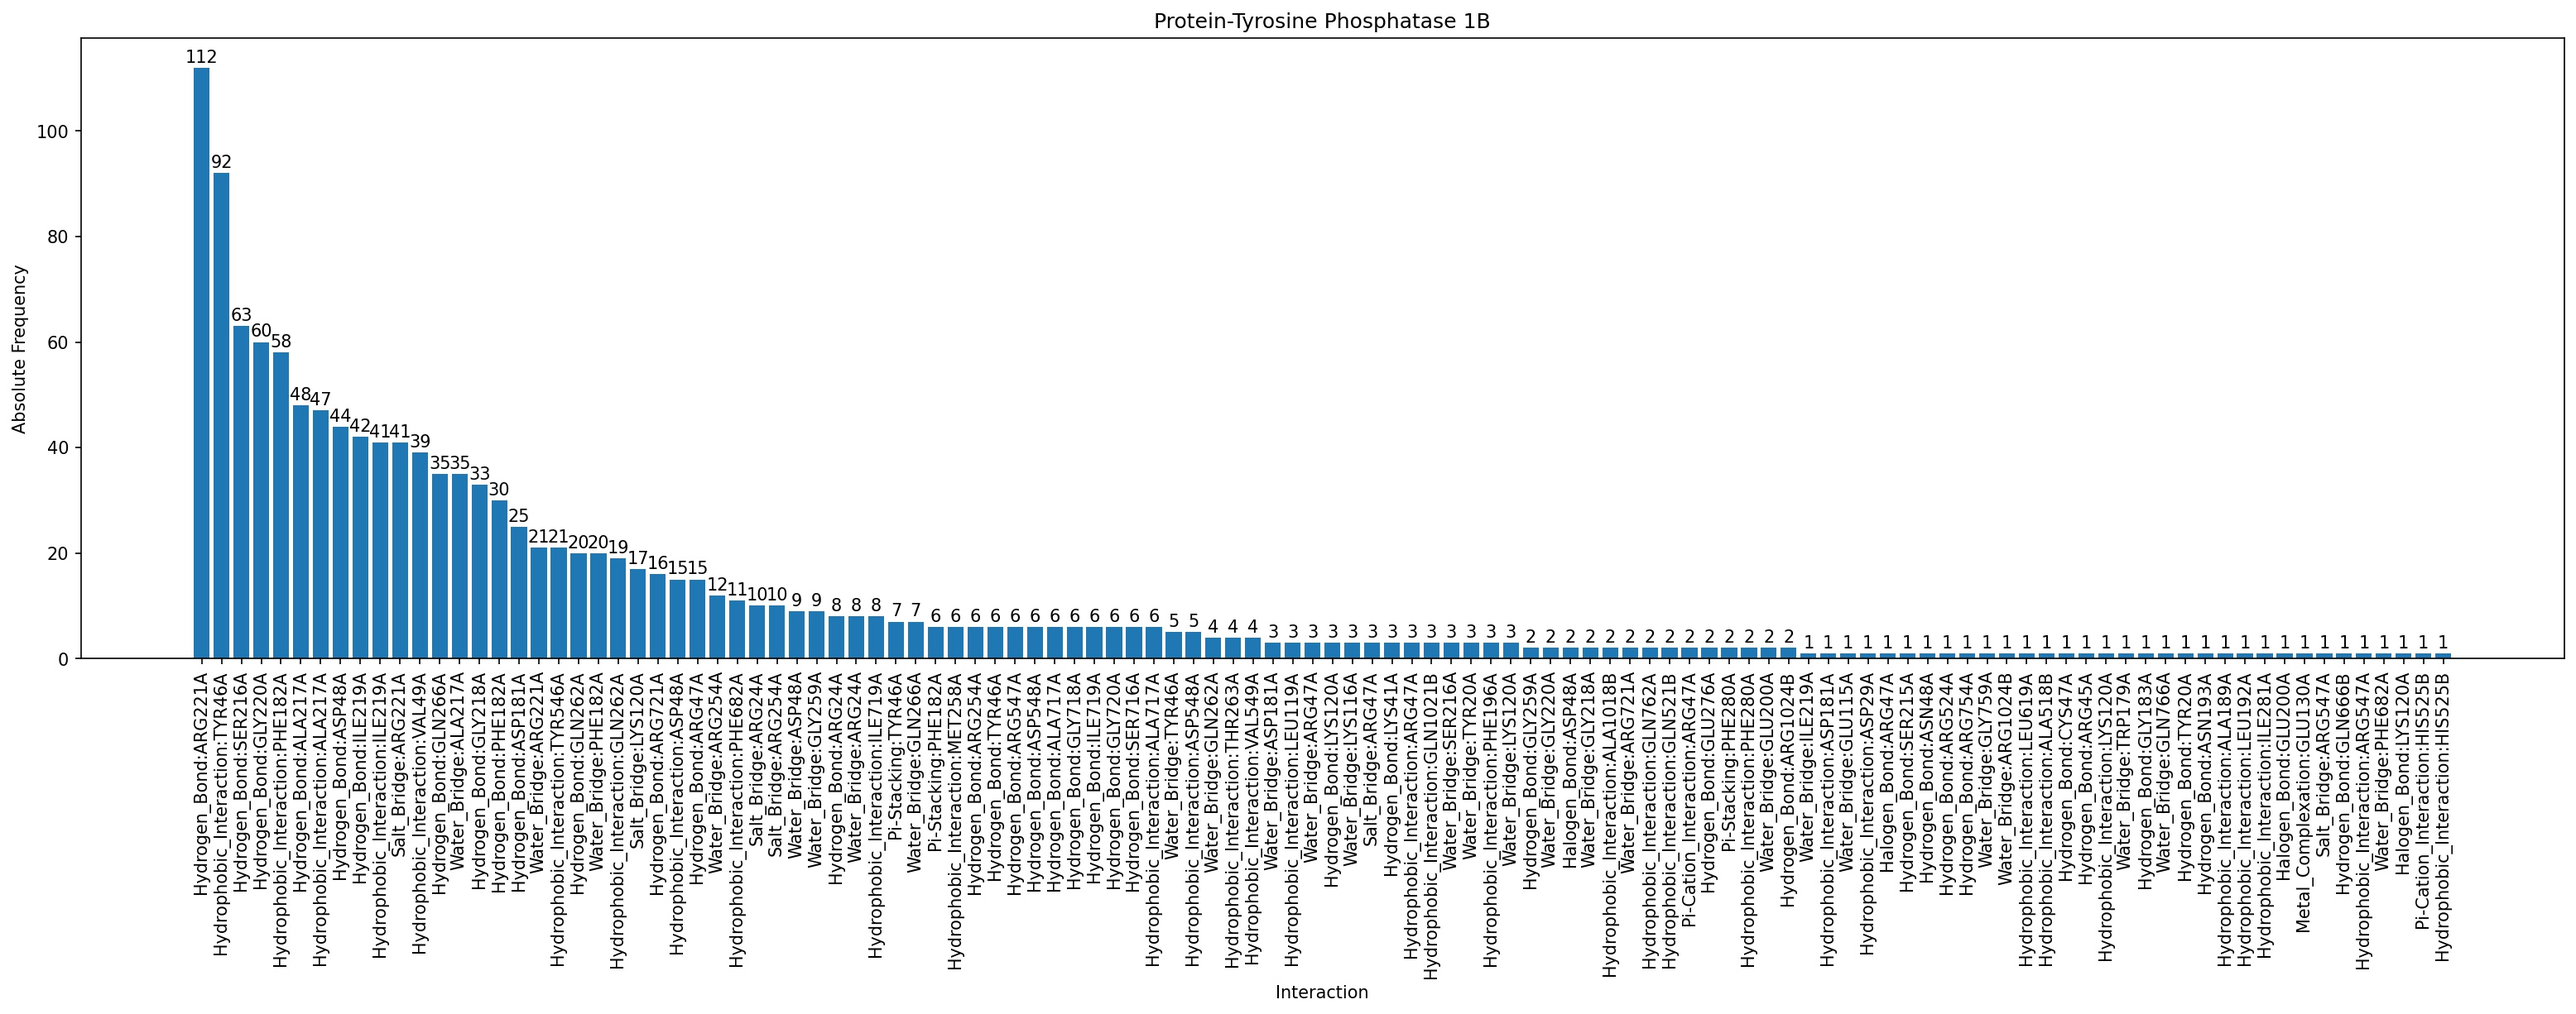
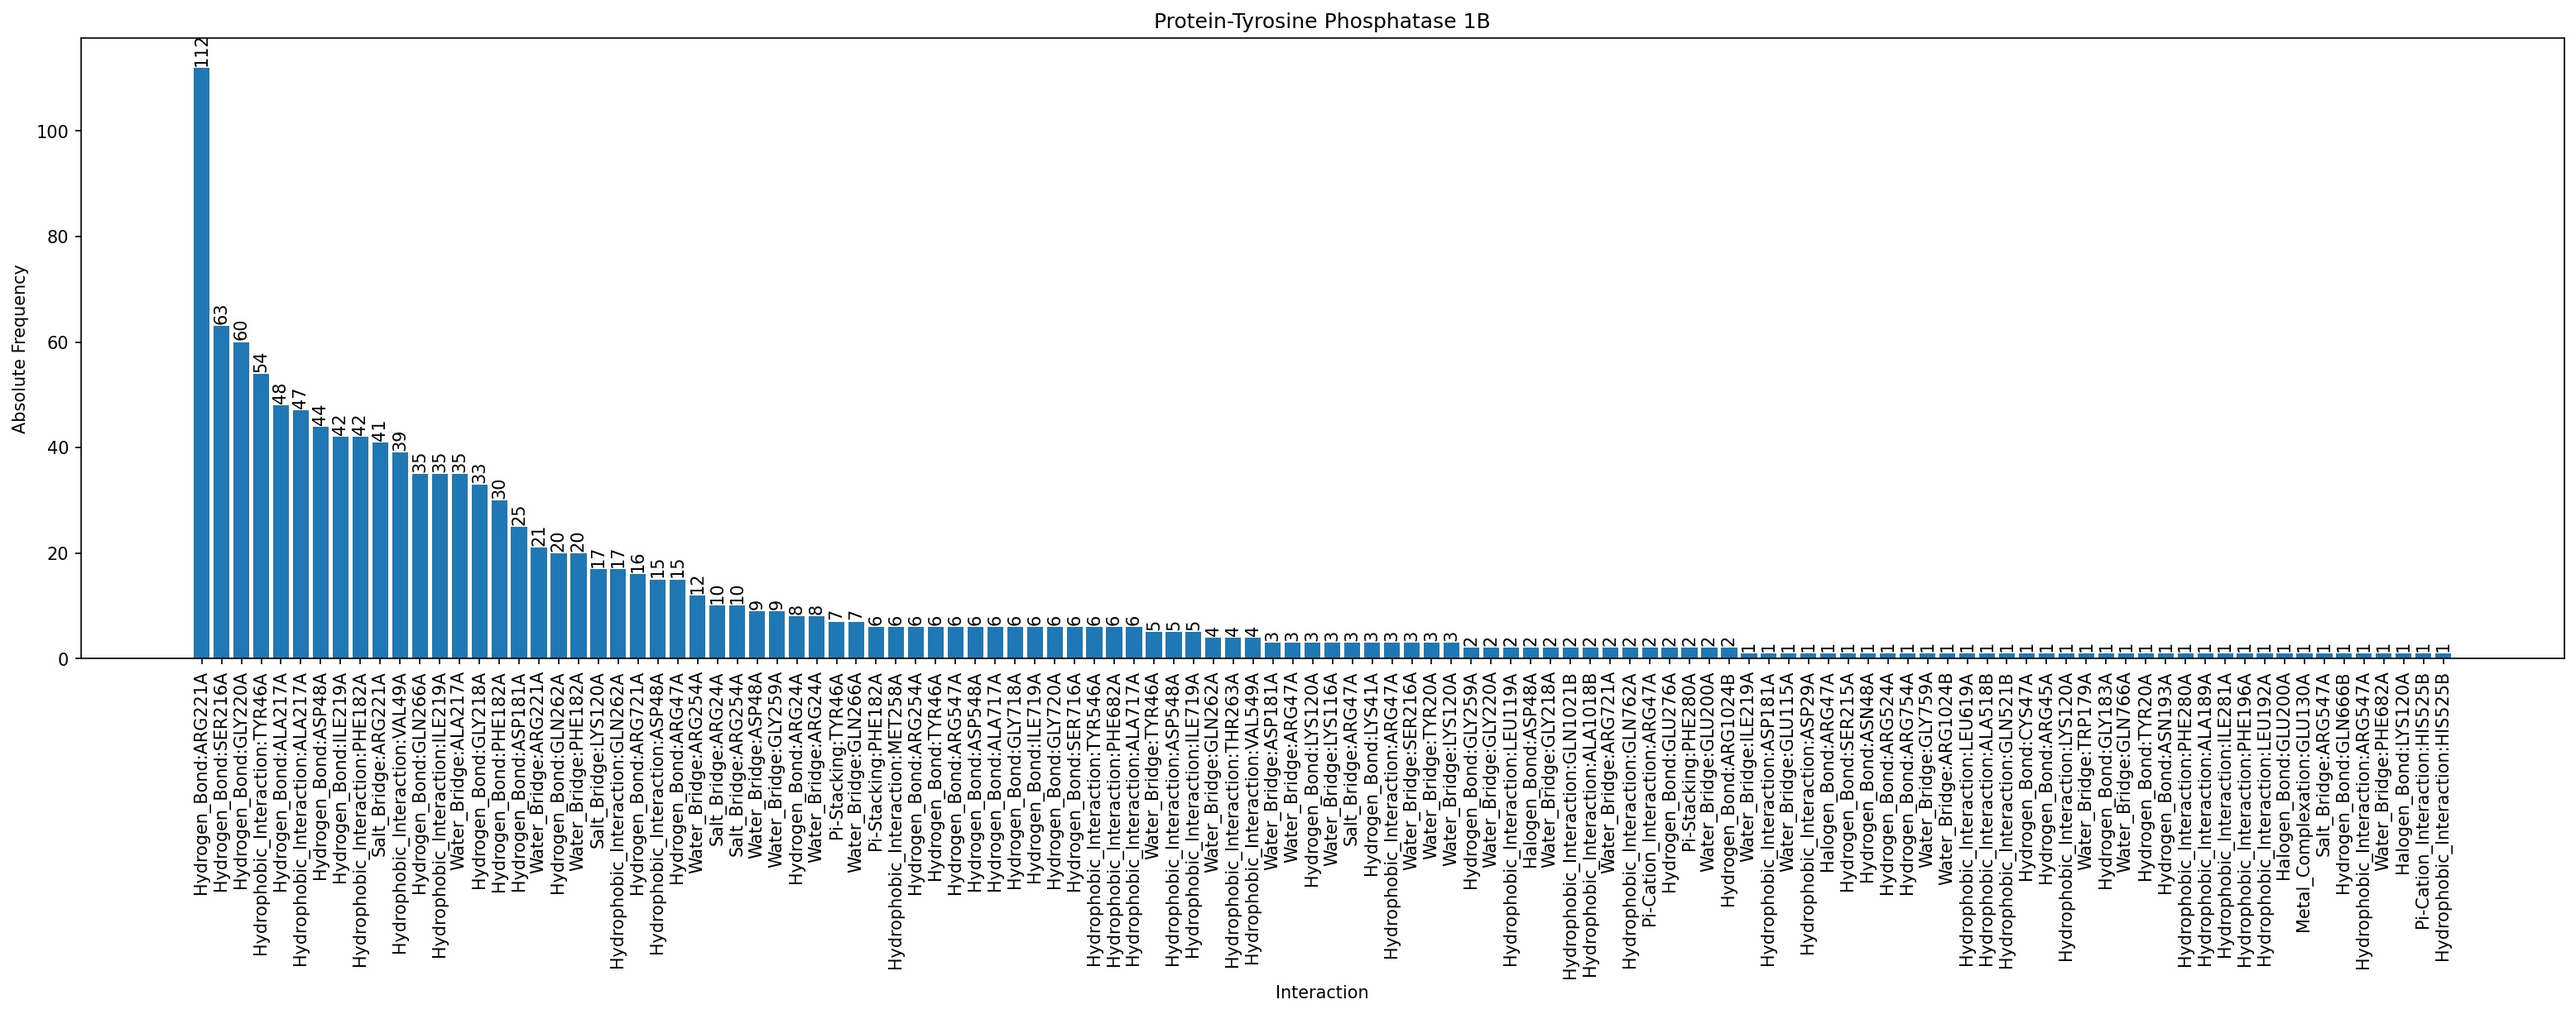
bump PTP1B results to newer version

diff --git a/data/protein-tyrosine_phosphatase_1B/plip_analysis.py b/data/protein-tyrosine_phosphatase_1B/plip_analysis.py
@@ -22,13 +22,21 @@ if __name__ == '__main__':
     PDB_ENTRIES = list(df["PDB_ENTRY"])
     print("First 5 PDB entries:")
     print(PDB_ENTRIES[:5])
-    result = pa(PDB_ENTRIES, path = "structures")
+    result = pa(PDB_ENTRIES, path = "structures", normalize = False)
     r = result.save("results/protein-tyrosine_phosphatase_1B")
     print("Result saved in:")
     print(r)
     r = result.to_csv("results/protein-tyrosine_phosphatase_1B_freq.csv")
     result.plot("Protein-Tyrosine Phosphatase 1B", filename = "results/protein-tyrosine_phosphatase_1B.jpg")
     result.plot("Protein-Tyrosine Phosphatase 1B", filename = "results/protein-tyrosine_phosphatase_1B.png")
+    # normalized results
+    result = pa(PDB_ENTRIES, path = "structures", normalize = True)
+    r = result.save("results/protein-tyrosine_phosphatase_1B_normalized")
+    print("Result saved in:")
+    print(r)
+    r = result.to_csv("results/protein-tyrosine_phosphatase_1B_normalized_freq.csv")
+    result.plot("Protein-Tyrosine Phosphatase 1B", filename = "results/protein-tyrosine_phosphatase_1B_normalized.jpg")
+    result.plot("Protein-Tyrosine Phosphatase 1B", filename = "results/protein-tyrosine_phosphatase_1B_normalized.png")
 
     # clean up
     os.remove("PLIPAnalyzer.py")
